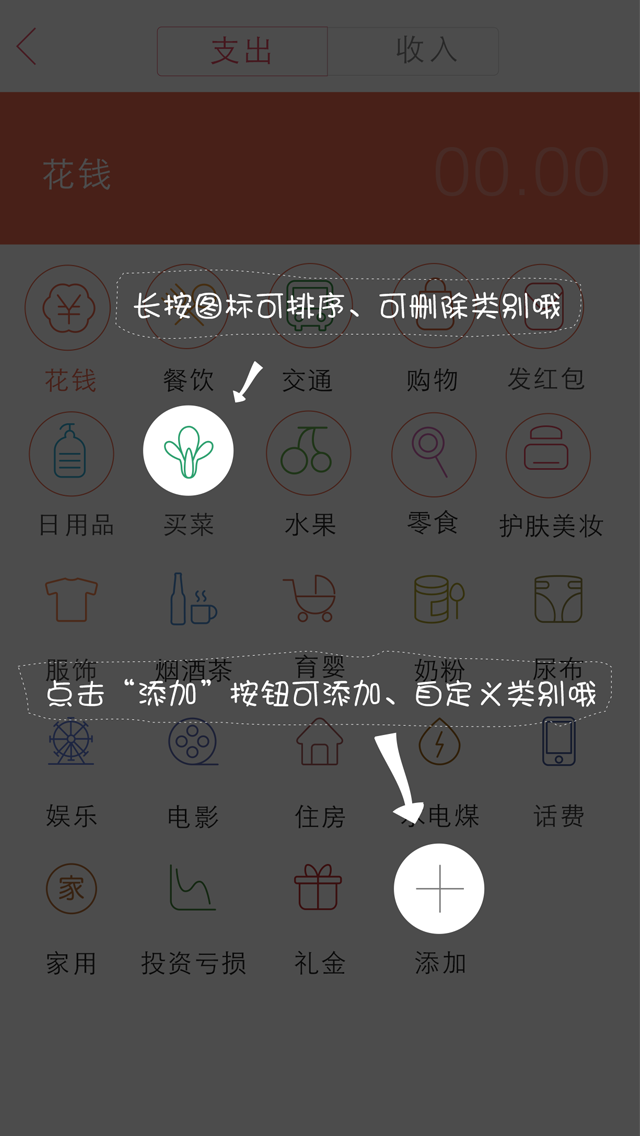
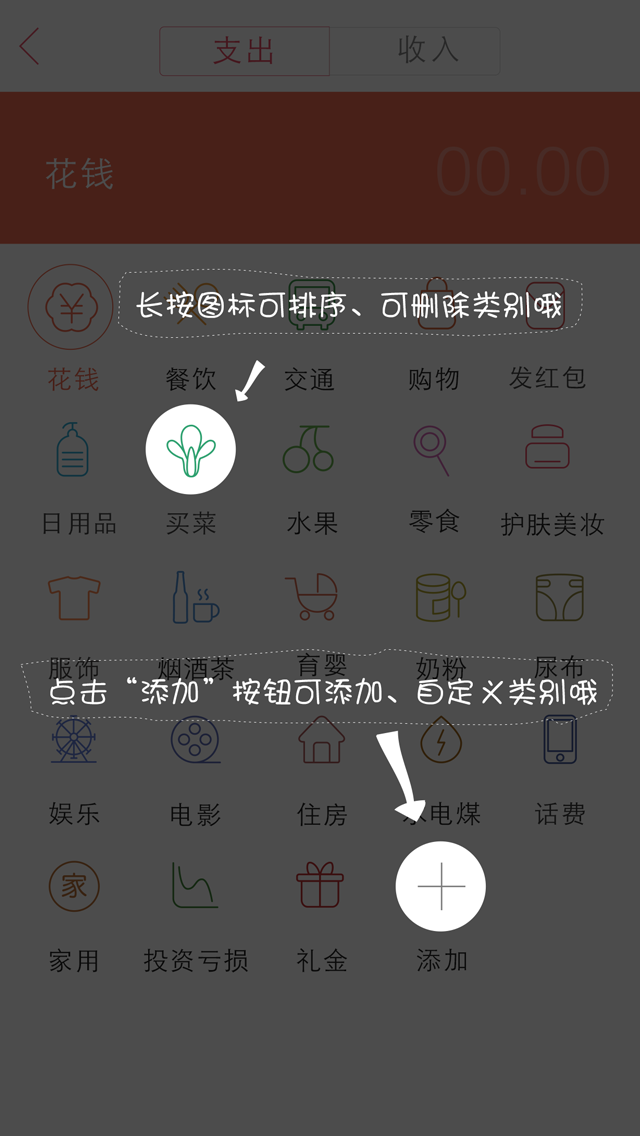
新增收支类型没有选中

diff --git a/SuiShouJi/Module/BookKeeping/RecordMaking/ViewController/SSJADDNewTypeViewController.m b/SuiShouJi/Module/BookKeeping/RecordMaking/ViewController/SSJADDNewTypeViewController.m
@@ -153,14 +153,18 @@ static NSString *const kCellId = @"CategoryCollectionViewCellIdentifier";
         __weak typeof(self) weakSelf = self;
         SSJRecordMakingCategoryItem *item = [_items ssj_safeObjectAtIndex:_newCategorySelectedIndex];
         [[SSJDatabaseQueue sharedInstance] asyncInDatabase:^(FMDatabase *db){
-            [db executeUpdate:@"UPDATE BK_USER_BILL SET ISTATE = 1 , CWRITEDATE = ? , IVERSION = ? , OPERATORTYPE = 1 WHERE CBILLID = ? AND CUSERID = ?",[[NSDate date] ssj_systemCurrentDateWithFormat:@"yyyy-MM-dd HH:mm:ss.SSS"],[NSNumber numberWithLongLong:SSJSyncVersion()],item.categoryID,SSJUSERID()];
-            //        [weakSelf getDateFromDb];
-            dispatch_async(dispatch_get_main_queue(), ^(){
-                [weakSelf.navigationController popViewControllerAnimated:YES];
-                if (weakSelf.addNewCategoryAction) {
-                    weakSelf.addNewCategoryAction(item.categoryID);
-                }
-            });
+            if ([db executeUpdate:@"UPDATE BK_USER_BILL SET ISTATE = 1 , CWRITEDATE = ? , IVERSION = ? , OPERATORTYPE = 1 WHERE CBILLID = ? AND CUSERID = ?",[[NSDate date] ssj_systemCurrentDateWithFormat:@"yyyy-MM-dd HH:mm:ss.SSS"],[NSNumber numberWithLongLong:SSJSyncVersion()],item.categoryID,SSJUSERID()]) {
+                dispatch_async(dispatch_get_main_queue(), ^(){
+                    [weakSelf.navigationController popViewControllerAnimated:YES];
+                    if (weakSelf.addNewCategoryAction) {
+                        weakSelf.addNewCategoryAction(item.categoryID);
+                    }
+                });
+            } else {
+                dispatch_async(dispatch_get_main_queue(), ^(){
+                    [CDAutoHideMessageHUD showMessage:SSJ_ERROR_MESSAGE];
+                });
+            }
         }];
         
     } else if (_titleSegmentView.selectedIndex == 1) {

diff --git a/SuiShouJi/Module/BookKeeping/RecordMaking/ViewController/SSJRecordMakingViewController.m b/SuiShouJi/Module/BookKeeping/RecordMaking/ViewController/SSJRecordMakingViewController.m
@@ -482,7 +482,7 @@ static NSString *const kIsEverEnteredKey = @"kIsEverEnteredKey";
         __block NSInteger selectedIndex = 0;
         dispatch_apply([result count], dispatch_get_global_queue(DISPATCH_QUEUE_PRIORITY_DEFAULT, 0), ^(size_t index) {
             SSJRecordMakingBillTypeSelectionCellItem *item = [result ssj_safeObjectAtIndex:index];
-            if (_item && _categoryID && [item.ID isEqualToString:_categoryID]) {
+            if (_categoryID && [item.ID isEqualToString:_categoryID]) {
                 selectedIndex = index;
             }
         });

diff --git a/SuiShouJi/Module/BookKeeping/RecordMaking/Model/SSJRecordMakingBillTypeSelectionCellItem.m b/SuiShouJi/Module/BookKeeping/RecordMaking/Model/SSJRecordMakingBillTypeSelectionCellItem.m
@@ -19,4 +19,11 @@
     return item;
 }
 
+- (NSString *)debugDescription {
+    return [NSString stringWithFormat:@"%@", @{@"ID":(_ID ?: [NSNull null]),
+                                               @"title":(_title ?: [NSNull null]),
+                                               @"imageName":(_imageName ?: [NSNull null]),
+                                               @"colorValue":(_colorValue ?: [NSNull null])}];
+}
+
 @end
